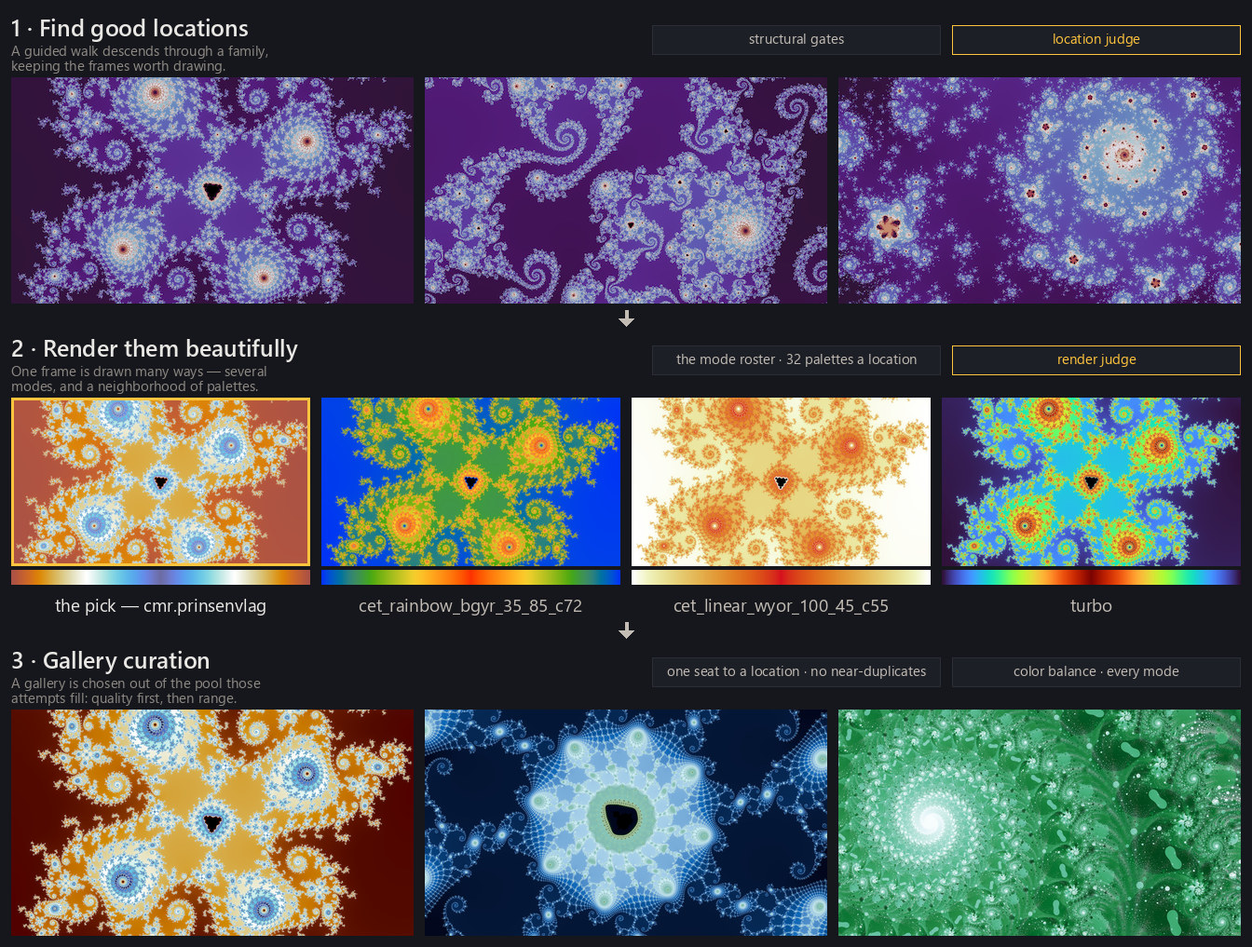
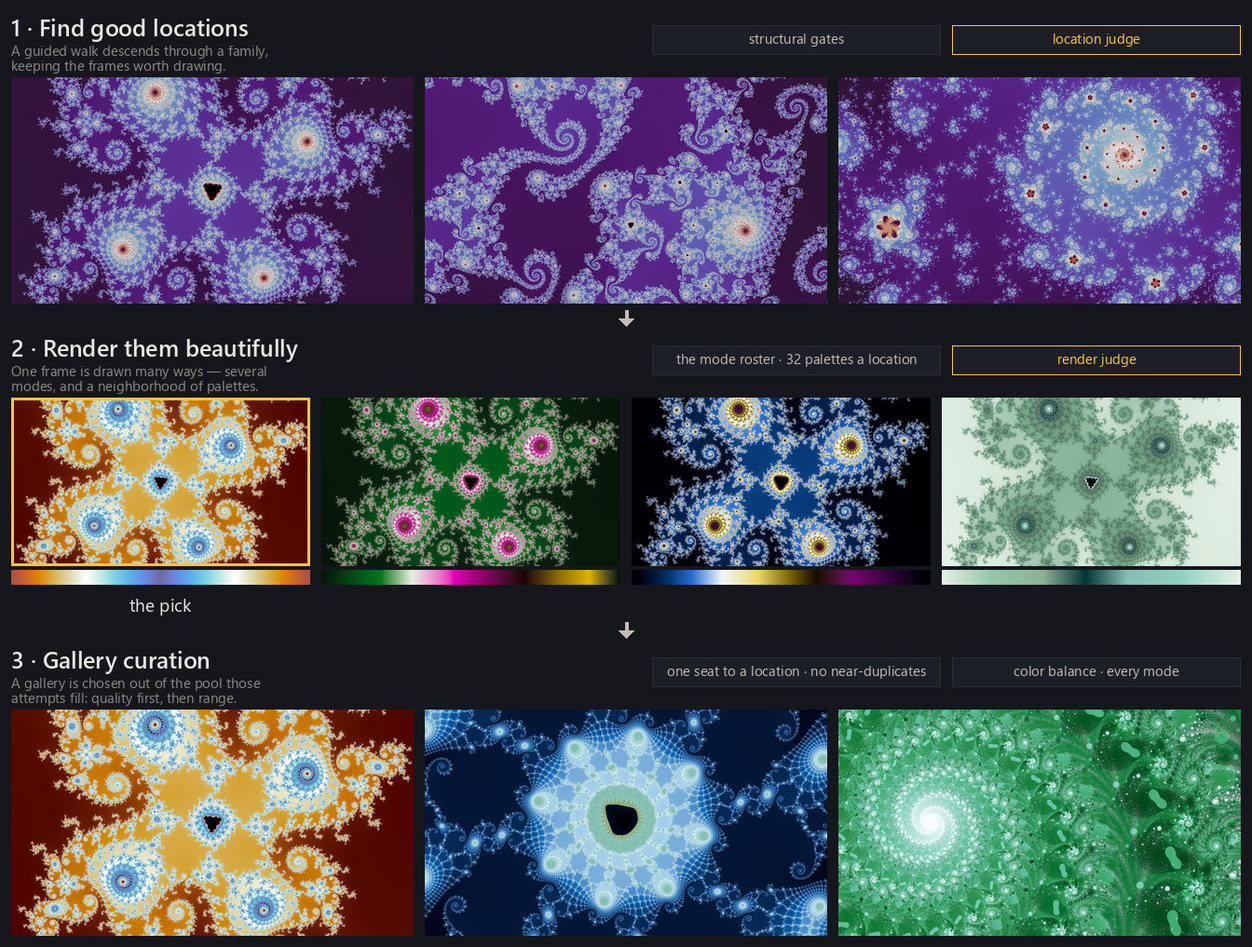
Draw the random palettes from the authored maps
Three changes to which map a figure reaches for, and one to what a row says
about itself.

The random draw in the pipeline's middle band was over the whole 900-map
pool, and kept landing on converted ramps carrying library identifiers for
names — `cet_rainbow_bgyr_35_85_c72` under a picture on the article's front
page. It draws from the authored maps now (Matt, 2026-09-02): names a
person wrote, and every one of the 375 is cyclic.

A cyclic map used to be excluded from that draw, and the reason was a
mistake worth naming. The row held the kept recipe's `mirror: true` fixed
across all four panels, and the engine refuses to fold a cyclic map —
folding is the seam fix for a map that has a seam. But mirror was never a
knob to hold fixed: `colorize.py` sets it as `colormap not in self.cyclic`,
which is what `palettes.Palette.mirror` already spelled here. The flag
follows the map now, exactly as a colorize attempt sets it, and the
exclusion goes with it.

No palette names are drawn on that row any more. A reader can do nothing
with four map names, and four of them turn a band of colour into a band of
text; the gradient under each panel says which map it is, and the names
stay in the provenance.

The levelling reaches the middle band too, which it should have from the
start — the caption says the tones are balanced. The marked panel replays
the run's own stamp, so it is now the same picture as the one in stage 3
[…]

diff --git a/explorer/palettes.js b/explorer/palettes.js
@@ -15,7 +15,7 @@
 
 export const PROVENANCE = {
   "baked": "2026-08-25",
-  "count": 113,
+  "count": 114,
   "default_because": "the article's mandelbrot smooth figures are colored through twilight_shifted",
   "offered": 77,
   "source": "data/palettes/*.json",
@@ -84,6 +84,12 @@ export const PALETTES = new Map([
     offered: false,
     positions: [0.0, 0.0019569471624266144, 0.003913894324853229, 0.005870841487279843, 0.007827788649706457, 0.009784735812133072, 0.011741682974559686, 0.0136986301369863, 0.015655577299412915, 0.01761252446183953, 0.019569471624266144, 0.021526418786692758, 0.023483365949119372, 0.025440313111545987, 0.0273972602739726, 0.029354207436399216, 0.03131115459882583, 0.033268101761252444, 0.03522504892367906, 0.03718199608610567, 0.03913894324853229, 0.0410958904109589, 0.043052837573385516, 0.04500978473581213, 0.046966731898238745, 0.04892367906066536, 0.050880626223091974, 0.05283757338551859, 0.0547945205479452, 0.05675146771037182, 0.05870841487279843, 0.060665362035225046, 0.06262230919765166, 0.06457925636007827, 0.06653620352250489, 0.0684931506849315, 0.07045009784735812, 0.07240704500978473, 0.07436399217221135, 0.07632093933463796, 0.07827788649706457, 0.08023483365949119, 0.0821917808219178, 0.08414872798434442, 0.08610567514677103, 0.08806262230919765, 0.09001956947162426, 0.09197651663405088, 0.09393346379647749, 0.0958904109589041, 0.09784735812133072, 0.09980430528375733, 0.10176125244618395, 0.10371819960861056, 0.10567514677103718, 0.10763209393346379, 0.1095890410958904, 0.11154598825831702, 0.11350293542074363, 0.11545988258317025, 0.11741682974559686, 0.11937377690802348, 0.12133072407045009, 0.1232876712328767, 0.12524461839530332, 0.12720156555772993, 0.12915851272015655, 0.13111545988258316, 0.13307240704500978, 0.1350293542074364, 0.136986301369863, 0.13894324853228962, 0.14090019569471623, 0.14285714285714285, 0.14481409001956946, 0.14677103718199608, 0.1487279843444227, 0.1506849315068493, 0.15264187866927592, 0.15459882583170254, 0.15655577299412915, 0.15851272015655576, 0.16046966731898238, 0.162426614481409, 0.1643835616438356, 0.16634050880626222, 0.16829745596868884, 0.17025440313111545, 0.17221135029354206, 0.17416829745596868, 0.1761252446183953, 0.1780821917808219, 0.18003913894324852, 0.18199608610567514, 0.18395303326810175, 0.18590998043052837, 0.18786692759295498, 0.1898238747553816, 0.1917808219178082, 0.19373776908023482, 0.19569471624266144, 0.19765166340508805, 0.19960861056751467, 0.20156555772994128, 0.2035225048923679, 0.2054794520547945, 0.20743639921722112, 0.20939334637964774, 0.21135029354207435, 0.21330724070450097, 0.21526418786692758, 0.2172211350293542, 0.2191780821917808, 0.22113502935420742, 0.22309197651663404, 0.22504892367906065, 0.22700587084148727, 0.22896281800391388, 0.2309197651663405, 0.2328767123287671, 0.23483365949119372, 0.23679060665362034, 0.23874755381604695, 0.24070450097847357, 0.24266144814090018, 0.2446183953033268, 0.2465753424657534, 0.24853228962818003, 0.25048923679060664, 0.25244618395303325, 0.25440313111545987, 0.2563600782778865, 0.2583170254403131, 0.2602739726027397, 0.2622309197651663, 0.26418786692759294, 0.26614481409001955, 0.26810176125244617, 0.2700587084148728, 0.2720156555772994, 0.273972602739726, 0.2759295499021526, 0.27788649706457924, 0.27984344422700586, 0.28180039138943247, 0.2837573385518591, 0.2857142857142857, 0.2876712328767123, 0.2896281800391389, 0.29158512720156554, 0.29354207436399216, 0.29549902152641877, 0.2974559686888454, 0.299412915851272, 0.3013698630136986, 0.30332681017612523, 0.30528375733855184, 0.30724070450097846, 0.30919765166340507, 0.3111545988258317, 0.3131115459882583, 0.3150684931506849, 0.31702544031311153, 0.31898238747553814, 0.32093933463796476, 0.32289628180039137, 0.324853228962818, 0.3268101761252446, 0.3287671232876712, 0.33072407045009783, 0.33268101761252444, 0.33463796477495106, 0.33659491193737767, 0.3385518590998043, 0.3405088062622309, 0.3424657534246575, 0.34442270058708413, 0.34637964774951074, 0.34833659491193736, 0.350293542074364, 0.3522504892367906, 0.3542074363992172, 0.3561643835616438, 0.35812133072407043, 0.36007827788649704, 0.36203522504892366, 0.3639921722113503, 0.3659491193737769, 0.3679060665362035, 0.3698630136986301, 0.37181996086105673, 0.37377690802348335, 0.37573385518590996, 0.3776908023483366, 0.3796477495107632, 0.3816046966731898, 0.3835616438356164, 0.38551859099804303, 0.38747553816046965, 0.38943248532289626, 0.3913894324853229, 0.3933463796477495, 0.3953033268101761, 0.3972602739726027, 0.39921722113502933, 0.40117416829745595, 0.40313111545988256, 0.4050880626223092, 0.4070450097847358, 0.4090019569471624, 0.410958904109589, 0.41291585127201563, 0.41487279843444225, 0.41682974559686886, 0.4187866927592955, 0.4207436399217221, 0.4227005870841487, 0.4246575342465753, 0.42661448140900193, 0.42857142857142855, 0.43052837573385516, 0.4324853228962818, 0.4344422700587084, 0.436399217221135, 0.4383561643835616, 0.44031311154598823, 0.44227005870841485, 0.44422700587084146, 0.4461839530332681, 0.4481409001956947, 0.4500978473581213, 0.4520547945205479, 0.45401174168297453, 0.45596868884540115, 0.45792563600782776, 0.4598825831702544, 0.461839530332681, 0.4637964774951076, 0.4657534246575342, 0.46771037181996084, 0.46966731898238745, 0.47162426614481406, 0.4735812133072407, 0.4755381604696673, 0.4774951076320939, 0.4794520547945205, 0.48140900195694714, 0.48336594911937375, 0.48532289628180036, 0.487279843444227, 0.4892367906066536, 0.4911937377690802, 0.4931506849315068, 0.49510763209393344, 0.49706457925636005, 0.49902152641878667, 0.5009784735812133, 0.50293542074364, 0.5048923679060665, 0.5068493150684932, 0.5088062622309197, 0.5107632093933464, 0.512720156555773, 0.5146771037181996, 0.5166340508806262, 0.5185909980430529, 0.5205479452054794, 0.5225048923679061, 0.5244618395303327, 0.5264187866927593, 0.5283757338551859, 0.5303326810176126, 0.5322896281800391, 0.5342465753424658, 0.5362035225048923, 0.538160469667319, 0.5401174168297456, 0.5420743639921722, 0.5440313111545988, 0.5459882583170255, 0.547945205479452, 0.5499021526418787, 0.5518590998043053, 0.5538160469667319, 0.5557729941291585, 0.5577299412915852, 0.5596868884540117, 0.5616438356164384, 0.5636007827788649, 0.5655577299412916, 0.5675146771037182, 0.5694716242661448, 0.5714285714285714, 0.5733855185909981, 0.5753424657534246, 0.5772994129158513, 0.5792563600782779, 0.5812133072407045, 0.5831702544031311, 0.5851272015655578, 0.5870841487279843, 0.589041095890411, 0.5909980430528375, 0.5929549902152642, 0.5949119373776908, 0.5968688845401174, 0.598825831702544, 0.6007827788649707, 0.6027397260273972, 0.6046966731898239, 0.6066536203522505, 0.6086105675146771, 0.6105675146771037, 0.6125244618395304, 0.6144814090019569, 0.6164383561643836, 0.6183953033268101, 0.6203522504892368, 0.6223091976516634, 0.62426614481409, 0.6262230919765166, 0.6281800391389433, 0.6301369863013698, 0.6320939334637965, 0.6340508806262231, 0.6360078277886497, 0.6379647749510763, 0.639921722113503, 0.6418786692759295, 0.6438356164383562, 0.6457925636007827, 0.6477495107632094, 0.649706457925636, 0.6516634050880626, 0.6536203522504892, 0.6555772994129159, 0.6575342465753424, 0.6594911937377691, 0.6614481409001957, 0.6634050880626223, 0.6653620352250489, 0.6673189823874756, 0.6692759295499021, 0.6712328767123288, 0.6731898238747553, 0.675146771037182, 0.6771037181996086, 0.6790606653620352, 0.6810176125244618, 0.6829745596868885, 0.684931506849315, 0.6868884540117417, 0.6888454011741683, 0.6908023483365949, 0.6927592954990215, 0.6947162426614482, 0.6966731898238747, 0.6986301369863014, 0.700587084148728, 0.7025440313111546, 0.7045009784735812, 0.7064579256360078, 0.7084148727984344, 0.7103718199608611, 0.7123287671232876, 0.7142857142857143, 0.7162426614481409, 0.7181996086105675, 0.7201565557729941, 0.7221135029354208, 0.7240704500978473, 0.726027397260274, 0.7279843444227005, 0.7299412915851272, 0.7318982387475538, 0.7338551859099804, 0.735812133072407, 0.7377690802348337, 0.7397260273972602, 0.7416829745596869, 0.7436399217221135, 0.7455968688845401, 0.7475538160469667, 0.7495107632093934, 0.7514677103718199, 0.7534246575342466, 0.7553816046966731, 0.7573385518590998, 0.7592954990215264, 0.761252446183953, 0.7632093933463796, 0.7651663405088063, 0.7671232876712328, 0.7690802348336595, 0.7710371819960861, 0.7729941291585127, 0.7749510763209393, 0.776908023483366, 0.7788649706457925, 0.7808219178082192, 0.7827788649706457, 0.7847358121330724, 0.786692759295499, 0.7886497064579256, 0.7906066536203522, 0.7925636007827789, 0.7945205479452054, 0.7964774951076321, 0.7984344422700587, 0.8003913894324853, 0.8023483365949119, 0.8043052837573386, 0.8062622309197651, 0.8082191780821918, 0.8101761252446184, 0.812133072407045, 0.8140900195694716, 0.8160469667318982, 0.8180039138943248, 0.8199608610567515, 0.821917808219178, 0.8238747553816047, 0.8258317025440313, 0.8277886497064579, 0.8297455968688845, 0.8317025440313112, 0.8336594911937377, 0.8356164383561644, 0.837573385518591, 0.8395303326810176, 0.8414872798434442, 0.8434442270058709, 0.8454011741682974, 0.8473581213307241, 0.8493150684931506, 0.8512720156555773, 0.8532289628180039, 0.8551859099804305, 0.8571428571428571, 0.8590998043052838, 0.8610567514677103, 0.863013698630137, 0.8649706457925636, 0.8669275929549902, 0.8688845401174168, 0.8708414872798435, 0.87279843444227, 0.8747553816046967, 0.8767123287671232, 0.8786692759295499, 0.8806262230919765, 0.8825831702544031, 0.8845401174168297, 0.8864970645792564, 0.8884540117416829, 0.8904109589041096, 0.8923679060665362, 0.8943248532289628, 0.8962818003913894, 0.898238747553816, 0.9001956947162426, 0.9021526418786693, 0.9041095890410958, 0.9060665362035225, 0.9080234833659491, 0.9099804305283757, 0.9119373776908023, 0.913894324853229, 0.9158512720156555, 0.9178082191780822, 0.9197651663405088, 0.9217221135029354, 0.923679060665362, 0.9256360078277887, 0.9275929549902152, 0.9295499021526419, 0.9315068493150684, 0.9334637964774951, 0.9354207436399217, 0.9373776908023483, 0.9393346379647749, 0.9412915851272016, 0.9432485322896281, 0.9452054794520548, 0.9471624266144814, 0.949119373776908, 0.9510763209393346, 0.9530332681017613, 0.9549902152641878, 0.9569471624266145, 0.958904109589041, 0.9608610567514677, 0.9628180039138943, 0.9647749510763209, 0.9667318982387475, 0.9686888454011742, 0.9706457925636007, 0.9726027397260274, 0.974559686888454, 0.9765166340508806, 0.9784735812133072, 0.9804305283757339, 0.9823874755381604, 0.9843444227005871, 0.9863013698630136, 0.9882583170254403, 0.9902152641878669, 0.9921722113502935, 0.9941291585127201, 0.9960861056751468, 0.9980430528375733, 1.0],
     colors: [2, 0, 0, 2, 0, 0, 2, 0, 0, 3, 0, 0, 3, 0, 0, 4, 0, 0, 5, 0, 0, 5, 0, 0, 6, 0, 0, 7, 0, 0, 8, 0, 0, 9, 0, 0, 10, 0, 0, 11, 0, 0, 13, 0, 0, 14, 0, 0, 15, 0, 0, 16, 0, 0, 17, 0, 0, 19, 0, 0, 20, 0, 0, 21, 0, 0, 22, 0, 0, 24, 0, 0, 25, 0, 0, 26, 0, 0, 28, 0, 0, 29, 0, 0, 30, 0, 0, 31, 0, 0, 33, 0, 0, 34, 0, 0, 35, 0, 0, 37, 0, 0, 38, 0, 0, 40, 0, 0, 41, 0, 0, 42, 0, 0, 44, 0, 0, 45, 0, 0, 46, 0, 0, 48, 0, 0, 49, 0, 0, 51, 0, 0, 52, 0, 0, 54, 0, 0, 55, 0, 0, 56, 0, 0, 58, 0, 0, 59, 0, 0, 61, 0, 0, 62, 0, 0, 64, 0, 0, 65, 0, 0, 67, 0, 0, 68, 0, 0, 70, 0, 0, 71, 0, 0, 73, 0, 0, 74, 0, 0, 76, 0, 0, 77, 0, 0, 79, 0, 0, 80, 0, 0, 82, 0, 0, 83, 0, 0, 85, 0, 0, 86, 0, 0, 87, 0, 0, 88, 0, 0, 89, 0, 0, 89, 0, 0, 90, 0, 0, 91, 0, 0, 92, 1, 0, 93, 1, 0, 94, 2, 0, 95, 2, 0, 96, 3, 0, 96, 3, 0, 97, 4, 0, 98, 5, 0, 99, 5, 0, 100, 6, 0, 101, 7, 0, 102, 7, 0, 103, 8, 0, 103, 9, 0, 104, 10, 0, 105, 10, 0, 106, 11, 0, 107, 12, 0, 108, 13, 0, 109, 13, 0, 110, 14, 0, 111, 15, 0, 112, 16, 0, 112, 16, 0, 113, 17, 0, 114, 18, 0, 115, 18, 0, 116, 19, 0, 117, 20, 0, 118, 20, 0, 119, 21, 0, 120, 22, 0, 121, 22, 0, 121, 23, 0, 122, 23, 0, 123, 24, 0, 124, 25, 0, 125, 25, 0, 126, 26, 0, 127, 27, 0, 128, 27, 0, 129, 28, 0, 130, 28, 0, 131, 29, 0, 132, 30, 0, 132, 30, 0, 133, 31, 0, 134, 32, 0, 135, 32, 0, 136, 33, 0, 137, 33, 0, 138, 34, 0, 139, 35, 0, 140, 35, 0, 141, 36, 0, 142, 36, 0, 143, 37, 0, 144, 38, 0, 145, 38, 0, 145, 39, 0, 146, 39, 0, 147, 40, 0, 148, 41, 0, 149, 41, 0, 150, 42, 0, 151, 42, 0, 152, 43, 0, 153, 43, 0, 154, 44, 0, 155, 45, 0, 155, 45, 0, 156, 46, 0, 156, 47, 0, 157, 48, 0, 157, 48, 0, 158, 49, 0, 158, 50, 0, 159, 50, 0, 159, 51, 0, 160, 52, 0, 160, 52, 0, 161, 53, 0, 161, 54, 0, 162, 54, 0, 162, 55, 0, 163, 56, 0, 163, 56, 0, 164, 57, 0, 164, 58, 0, 165, 58, 0, 165, 59, 0, 166, 60, 0, 166, 60, 0, 167, 61, 0, 167, 62, 0, 168, 62, 0, 168, 63, 0, 169, 64, 0, 169, 64, 0, 170, 65, 0, 170, 66, 0, 171, 66, 0, 171, 67, 0, 172, 68, 0, 172, 68, 0, 173, 69, 0, 173, 69, 0, 174, 70, 0, 174, 71, 0, 175, 71, 0, 175, 72, 0, 176, 73, 0, 176, 73, 0, 177, 74, 0, 177, 75, 0, 178, 75, 0, 178, 76, 0, 179, 76, 0, 179, 77, 0, 180, 78, 0, 180, 78, 0, 181, 79, 0, 181, 80, 0, 182, 80, 0, 182, 81, 0, 183, 82, 0, 183, 82, 0, 184, 83, 0, 184, 83, 0, 185, 84, 0, 185, 85, 0, 186, 85, 0, 186, 86, 0, 187, 87, 0, 187, 87, 0, 188, 88, 0, 188, 88, 0, 189, 89, 0, 189, 90, 0, 190, 90, 0, 190, 91, 0, 191, 92, 0, 191, 92, 0, 192, 93, 0, 192, 93, 0, 193, 94, 0, 193, 95, 0, 194, 95, 0, 194, 96, 0, 195, 97, 0, 195, 97, 0, 196, 98, 0, 196, 98, 0, 196, 99, 0, 197, 100, 0, 197, 101, 0, 197, 101, 0, 198, 102, 0, 198, 103, 0, 198, 103, 0, 199, 104, 0, 199, 105, 0, 199, 106, 0, 199, 106, 0, 200, 107, 0, 200, 108, 0, 200, 108, 0, 201, 109, 0, 201, 110, 0, 201, 110, 0, 202, 111, 0, 202, 112, 0, 202, 112, 0, 202, 113, 0, 203, 114, 0, 203, 115, 0, 203, 115, 0, 204, 116, 0, 204, 117, 0, 204, 117, 0, 204, 118, 0, 205, 119, 0, 205, 119, 0, 205, 120, 0, 206, 121, 0, 206, 121, 0, 206, 122, 0, 206, 123, 0, 207, 123, 0, 207, 124, 0, 207, 125, 0, 208, 126, 0, 208, 126, 0, 208, 127, 0, 208, 128, 0, 209, 128, 0, 209, 129, 0, 209, 130, 0, 210, 130, 0, 210, 131, 0, 210, 132, 0, 210, 132, 0, 211, 133, 0, 211, 134, 0, 211, 134, 0, 211, 135, 0, 212, 136, 0, 212, 136, 0, 212, 137, 0, 212, 138, 0, 213, 138, 0, 213, 139, 0, 213, 140, 0, 214, 140, 0, 214, 141, 0, 214, 142, 0, 214, 143, 0, 215, 143, 0, 215, 144, 0, 215, 145, 0, 215, 145, 0, 216, 146, 0, 216, 147, 0, 216, 147, 1, 216, 148, 2, 217, 149, 4, 217, 149, 5, 217, 150, 6, 217, 151, 7, 218, 151, 8, 218, 152, 10, 218, 153, 11, 218, 153, 12, 219, 154, 15, 219, 155, 19, 219, 155, 23, 219, 156, 27, 220, 157, 30, 220, 157, 33, 220, 158, 35, 220, 159, 38, 221, 159, 40, 221, 160, 43, 221, 161, 45, 221, 161, 47, 221, 162, 49, 222, 163, 51, 222, 163, 53, 222, 164, 55, 222, 165, 57, 223, 165, 58, 223, 166, 60, 223, 166, 62, 223, 167, 63, 223, 168, 65, 224, 168, 67, 224, 169, 68, 224, 170, 70, 224, 170, 71, 225, 171, 73, 225, 172, 74, 225, 172, 76, 225, 173, 77, 225, 174, 79, 226, 174, 80, 226, 175, 82, 226, 176, 83, 226, 176, 84, 226, 177, 86, 227, 178, 87, 227, 178, 89, 227, 179, 90, 227, 179, 91, 228, 180, 93, 228, 181, 94, 228, 181, 95, 228, 182, 97, 228, 183, 98, 229, 183, 99, 229, 184, 100, 229, 185, 102, 229, 185, 103, 229, 186, 104, 230, 187, 106, 230, 187, 107, 230, 188, 108, 230, 188, 109, 230, 189, 111, 231, 190, 112, 231, 190, 113, 231, 191, 114, 231, 192, 115, 231, 192, 117, 232, 193, 118, 232, 194, 119, 232, 194, 120, 232, 195, 121, 232, 196, 123, 233, 196, 124, 233, 197, 125, 233, 197, 126, 233, 198, 127, 233, 199, 129, 234, 199, 130, 234, 200, 131, 234, 201, 132, 234, 201, 133, 234, 202, 134, 234, 203, 136, 235, 203, 137, 235, 204, 138, 235, 204, 139, 235, 205, 140, 235, 206, 141, 236, 206, 143, 236, 207, 144, 236, 208, 145, 236, 208, 146, 236, 209, 147, 237, 210, 148, 237, 210, 149, 237, 211, 151, 237, 212, 152, 237, 212, 153, 237, 213, 154, 238, 213, 155, 238, 214, 157, 238, 214, 158, 238, 215, 159, 238, 216, 161, 238, 216, 162, 239, 217, 164, 239, 217, 165, 239, 218, 166, 239, 218, 168, 239, 219, 169, 239, 219, 171, 240, 220, 172, 240, 220, 173, 240, 221, 175, 240, 221, 176, 240, 222, 177, 240, 222, 179, 241, 223, 180, 241, 223, 182, 241, 224, 183, 241, 224, 184, 241, 225, 186, 241, 225, 187, 242, 226, 188, 242, 227, 190, 242, 227, 191, 242, 228, 192, 242, 228, 194, 242, 229, 195, 243, 229, 197, 243, 230, 198, 243, 230, 199, 243, 231, 201, 243, 231, 202, 243, 232, 203, 244, 232, 205, 244, 233, 206, 244, 233, 207, 244, 234, 209, 244, 234, 210, 244, 235, 211, 245, 235, 213, 245, 236, 214, 245, 236, 215, 245, 237, 217, 245, 237, 218, 245, 238, 219, 246, 238, 221, 246, 239, 222, 246, 239, 223, 246, 240, 225, 246, 240, 226, 246, 241, 227, 246, 241, 229, 247, 242, 230, 247, 242, 231, 247, 243, 233, 247, 243, 234, 247, 244, 235, 247, 244, 237, 247, 244, 237, 241, 238, 231, 235, 232, 225, 230, 226, 219, 224, 220, 213, 218, 214, 207, 213, 208, 201, 207, 202, 196, 201, 197, 190, 196, 191, 184, 190, 185, 178, 185, 179, 173, 179, 174, 167, 174, 168, 161, 168, 162, 156, 163, 157, 150, 158, 151, 145, 152, 145, 139, 147, 140, 134, 142, 134, 128, 136, 129, 123, 131, 124, 118, 126, 118, 112, 121, 113, 107, 116, 108, 102, 111, 103, 97, 106, 97, 92, 101, 92, 87, 96, 87, 82, 91, 82, 77, 86, 77, 72, 81, 72, 67, 77, 67, 62, 72, 63, 58, 67, 58, 53, 63, 53, 48, 58, 49, 44, 54, 44, 39, 49, 39, 35, 45, 35, 31, 40, 31, 26, 36, 26, 22, 32, 22, 18, 28, 18, 14, 24, 14, 10, 20, 10, 7, 16, 7, 4, 12, 4, 2, 8, 2, 1, 5, 1, 0, 3, 0, 0, 2, 0, 0],
+  }],
+  ["Forge to White", {
+    cyclic: true,
+    offered: false,
+    positions: [0.0, 0.0019569471624266144, 0.003913894324853229, 0.005870841487279843, 0.007827788649706457, 0.009784735812133072, 0.011741682974559686, 0.0136986301369863, 0.015655577299412915, 0.01761252446183953, 0.019569471624266144, 0.021526418786692758, 0.023483365949119372, 0.025440313111545987, 0.0273972602739726, 0.029354207436399216, 0.03131115459882583, 0.033268101761252444, 0.03522504892367906, 0.03718199608610567, 0.03913894324853229, 0.0410958904109589, 0.043052837573385516, 0.04500978473581213, 0.046966731898238745, 0.04892367906066536, 0.050880626223091974, 0.05283757338551859, 0.0547945205479452, 0.05675146771037182, 0.05870841487279843, 0.060665362035225046, 0.06262230919765166, 0.06457925636007827, 0.06653620352250489, 0.0684931506849315, 0.07045009784735812, 0.07240704500978473, 0.07436399217221135, 0.07632093933463796, 0.07827788649706457, 0.08023483365949119, 0.0821917808219178, 0.08414872798434442, 0.08610567514677103, 0.08806262230919765, 0.09001956947162426, 0.09197651663405088, 0.09393346379647749, 0.0958904109589041, 0.09784735812133072, 0.09980430528375733, 0.10176125244618395, 0.10371819960861056, 0.10567514677103718, 0.10763209393346379, 0.1095890410958904, 0.11154598825831702, 0.11350293542074363, 0.11545988258317025, 0.11741682974559686, 0.11937377690802348, 0.12133072407045009, 0.1232876712328767, 0.12524461839530332, 0.12720156555772993, 0.12915851272015655, 0.13111545988258316, 0.13307240704500978, 0.1350293542074364, 0.136986301369863, 0.13894324853228962, 0.14090019569471623, 0.14285714285714285, 0.14481409001956946, 0.14677103718199608, 0.1487279843444227, 0.1506849315068493, 0.15264187866927592, 0.15459882583170254, 0.15655577299412915, 0.15851272015655576, 0.16046966731898238, 0.162426614481409, 0.1643835616438356, 0.16634050880626222, 0.16829745596868884, 0.17025440313111545, 0.17221135029354206, 0.17416829745596868, 0.1761252446183953, 0.1780821917808219, 0.18003913894324852, 0.18199608610567514, 0.18395303326810175, 0.18590998043052837, 0.18786692759295498, 0.1898238747553816, 0.1917808219178082, 0.19373776908023482, 0.19569471624266144, 0.19765166340508805, 0.19960861056751467, 0.20156555772994128, 0.2035225048923679, 0.2054794520547945, 0.20743639921722112, 0.20939334637964774, 0.21135029354207435, 0.21330724070450097, 0.21526418786692758, 0.2172211350293542, 0.2191780821917808, 0.22113502935420742, 0.22309197651663404, 0.22504892367906065, 0.22700587084148727, 0.22896281800391388, 0.2309197651663405, 0.2328767123287671, 0.23483365949119372, 0.23679060665362034, 0.23874755381604695, 0.24070450097847357, 0.24266144814090018, 0.2446183953033268, 0.2465753424657534, 0.24853228962818003, 0.25048923679060664, 0.25244618395303325, 0.25440313111545987, 0.2563600782778865, 0.2583170254403131, 0.2602739726027397, 0.2622309197651663, 0.26418786692759294, 0.26614481409001955, 0.26810176125244617, 0.2700587084148728, 0.2720156555772994, 0.273972602739726, 0.2759295499021526, 0.27788649706457924, 0.27984344422700586, 0.28180039138943247, 0.2837573385518591, 0.2857142857142857, 0.2876712328767123, 0.2896281800391389, 0.29158512720156554, 0.29354207436399216, 0.29549902152641877, 0.2974559686888454, 0.299412915851272, 0.3013698630136986, 0.30332681017612523, 0.30528375733855184, 0.30724070450097846, 0.30919765166340507, 0.3111545988258317, 0.3131115459882583, 0.3150684931506849, 0.31702544031311153, 0.31898238747553814, 0.32093933463796476, 0.32289628180039137, 0.324853228962818, 0.3268101761252446, 0.3287671232876712, 0.33072407045009783, 0.33268101761252444, 0.33463796477495106, 0.33659491193737767, 0.3385518590998043, 0.3405088062622309, 0.3424657534246575, 0.34442270058708413, 0.34637964774951074, 0.34833659491193736, 0.350293542074364, 0.3522504892367906, 0.3542074363992172, 0.3561643835616438, 0.35812133072407043, 0.36007827788649704, 0.36203522504892366, 0.3639921722113503, 0.3659491193737769, 0.3679060665362035, 0.3698630136986301, 0.37181996086105673, 0.37377690802348335, 0.37573385518590996, 0.3776908023483366, 0.3796477495107632, 0.3816046966731898, 0.3835616438356164, 0.38551859099804303, 0.38747553816046965, 0.38943248532289626, 0.3913894324853229, 0.3933463796477495, 0.3953033268101761, 0.3972602739726027, 0.39921722113502933, 0.40117416829745595, 0.40313111545988256, 0.4050880626223092, 0.4070450097847358, 0.4090019569471624, 0.410958904109589, 0.41291585127201563, 0.41487279843444225, 0.41682974559686886, 0.4187866927592955, 0.4207436399217221, 0.4227005870841487, 0.4246575342465753, 0.42661448140900193, 0.42857142857142855, 0.43052837573385516, 0.4324853228962818, 0.4344422700587084, 0.436399217221135, 0.4383561643835616, 0.44031311154598823, 0.44227005870841485, 0.44422700587084146, 0.4461839530332681, 0.4481409001956947, 0.4500978473581213, 0.4520547945205479, 0.45401174168297453, 0.45596868884540115, 0.45792563600782776, 0.4598825831702544, 0.461839530332681, 0.4637964774951076, 0.4657534246575342, 0.46771037181996084, 0.46966731898238745, 0.47162426614481406, 0.4735812133072407, 0.4755381604696673, 0.4774951076320939, 0.4794520547945205, 0.48140900195694714, 0.48336594911937375, 0.48532289628180036, 0.487279843444227, 0.4892367906066536, 0.4911937377690802, 0.4931506849315068, 0.49510763209393344, 0.49706457925636005, 0.49902152641878667, 0.5009784735812133, 0.50293542074364, 0.5048923679060665, 0.5068493150684932, 0.5088062622309197, 0.5107632093933464, 0.512720156555773, 0.5146771037181996, 0.5166340508806262, 0.5185909980430529, 0.5205479452054794, 0.5225048923679061, 0.5244618395303327, 0.5264187866927593, 0.5283757338551859, 0.5303326810176126, 0.5322896281800391, 0.5342465753424658, 0.5362035225048923, 0.538160469667319, 0.5401174168297456, 0.5420743639921722, 0.5440313111545988, 0.5459882583170255, 0.547945205479452, 0.5499021526418787, 0.5518590998043053, 0.5538160469667319, 0.5557729941291585, 0.5577299412915852, 0.5596868884540117, 0.5616438356164384, 0.5636007827788649, 0.5655577299412916, 0.5675146771037182, 0.5694716242661448, 0.5714285714285714, 0.5733855185909981, 0.5753424657534246, 0.5772994129158513, 0.5792563600782779, 0.5812133072407045, 0.5831702544031311, 0.5851272015655578, 0.5870841487279843, 0.589041095890411, 0.5909980430528375, 0.5929549902152642, 0.5949119373776908, 0.5968688845401174, 0.598825831702544, 0.6007827788649707, 0.6027397260273972, 0.6046966731898239, 0.6066536203522505, 0.6086105675146771, 0.6105675146771037, 0.6125244618395304, 0.6144814090019569, 0.6164383561643836, 0.6183953033268101, 0.6203522504892368, 0.6223091976516634, 0.62426614481409, 0.6262230919765166, 0.6281800391389433, 0.6301369863013698, 0.6320939334637965, 0.6340508806262231, 0.6360078277886497, 0.6379647749510763, 0.639921722113503, 0.6418786692759295, 0.6438356164383562, 0.6457925636007827, 0.6477495107632094, 0.649706457925636, 0.6516634050880626, 0.6536203522504892, 0.6555772994129159, 0.6575342465753424, 0.6594911937377691, 0.6614481409001957, 0.6634050880626223, 0.6653620352250489, 0.6673189823874756, 0.6692759295499021, 0.6712328767123288, 0.6731898238747553, 0.675146771037182, 0.6771037181996086, 0.6790606653620352, 0.6810176125244618, 0.6829745596868885, 0.684931506849315, 0.6868884540117417, 0.6888454011741683, 0.6908023483365949, 0.6927592954990215, 0.6947162426614482, 0.6966731898238747, 0.6986301369863014, 0.700587084148728, 0.7025440313111546, 0.7045009784735812, 0.7064579256360078, 0.7084148727984344, 0.7103718199608611, 0.7123287671232876, 0.7142857142857143, 0.7162426614481409, 0.7181996086105675, 0.7201565557729941, 0.7221135029354208, 0.7240704500978473, 0.726027397260274, 0.7279843444227005, 0.7299412915851272, 0.7318982387475538, 0.7338551859099804, 0.735812133072407, 0.7377690802348337, 0.7397260273972602, 0.7416829745596869, 0.7436399217221135, 0.7455968688845401, 0.7475538160469667, 0.7495107632093934, 0.7514677103718199, 0.7534246575342466, 0.7553816046966731, 0.7573385518590998, 0.7592954990215264, 0.761252446183953, 0.7632093933463796, 0.7651663405088063, 0.7671232876712328, 0.7690802348336595, 0.7710371819960861, 0.7729941291585127, 0.7749510763209393, 0.776908023483366, 0.7788649706457925, 0.7808219178082192, 0.7827788649706457, 0.7847358121330724, 0.786692759295499, 0.7886497064579256, 0.7906066536203522, 0.7925636007827789, 0.7945205479452054, 0.7964774951076321, 0.7984344422700587, 0.8003913894324853, 0.8023483365949119, 0.8043052837573386, 0.8062622309197651, 0.8082191780821918, 0.8101761252446184, 0.812133072407045, 0.8140900195694716, 0.8160469667318982, 0.8180039138943248, 0.8199608610567515, 0.821917808219178, 0.8238747553816047, 0.8258317025440313, 0.8277886497064579, 0.8297455968688845, 0.8317025440313112, 0.8336594911937377, 0.8356164383561644, 0.837573385518591, 0.8395303326810176, 0.8414872798434442, 0.8434442270058709, 0.8454011741682974, 0.8473581213307241, 0.8493150684931506, 0.8512720156555773, 0.8532289628180039, 0.8551859099804305, 0.8571428571428571, 0.8590998043052838, 0.8610567514677103, 0.863013698630137, 0.8649706457925636, 0.8669275929549902, 0.8688845401174168, 0.8708414872798435, 0.87279843444227, 0.8747553816046967, 0.8767123287671232, 0.8786692759295499, 0.8806262230919765, 0.8825831702544031, 0.8845401174168297, 0.8864970645792564, 0.8884540117416829, 0.8904109589041096, 0.8923679060665362, 0.8943248532289628, 0.8962818003913894, 0.898238747553816, 0.9001956947162426, 0.9021526418786693, 0.9041095890410958, 0.9060665362035225, 0.9080234833659491, 0.9099804305283757, 0.9119373776908023, 0.913894324853229, 0.9158512720156555, 0.9178082191780822, 0.9197651663405088, 0.9217221135029354, 0.923679060665362, 0.9256360078277887, 0.9275929549902152, 0.9295499021526419, 0.9315068493150684, 0.9334637964774951, 0.9354207436399217, 0.9373776908023483, 0.9393346379647749, 0.9412915851272016, 0.9432485322896281, 0.9452054794520548, 0.9471624266144814, 0.949119373776908, 0.9510763209393346, 0.9530332681017613, 0.9549902152641878, 0.9569471624266145, 0.958904109589041, 0.9608610567514677, 0.9628180039138943, 0.9647749510763209, 0.9667318982387475, 0.9686888454011742, 0.9706457925636007, 0.9726027397260274, 0.974559686888454, 0.9765166340508806, 0.9784735812133072, 0.9804305283757339, 0.9823874755381604, 0.9843444227005871, 0.9863013698630136, 0.9882583170254403, 0.9902152641878669, 0.9921722113502935, 0.9941291585127201, 0.9960861056751468, 0.9980430528375733, 1.0],
+    colors: [1, 0, 0, 1, 0, 0, 1, 0, 0, 2, 0, 0, 2, 0, 0, 3, 0, 0, 3, 0, 0, 4, 0, 0, 4, 0, 0, 5, 0, 0, 5, 0, 0, 6, 0, 0, 7, 0, 0, 8, 0, 0, 9, 0, 0, 9, 0, 0, 11, 0, 0, 12, 0, 0, 13, 0, 0, 14, 0, 0, 15, 0, 0, 16, 0, 0, 17, 0, 0, 18, 0, 0, 19, 0, 0, 20, 0, 0, 21, 0, 0, 22, 0, 0, 24, 0, 0, 25, 0, 0, 26, 0, 0, 27, 0, 0, 28, 0, 0, 29, 0, 0, 30, 0, 0, 32, 0, 0, 33, 0, 0, 34, 0, 0, 35, 0, 0, 36, 0, 0, 38, 0, 0, 39, 0, 0, 40, 0, 0, 41, 0, 0, 42, 0, 0, 44, 0, 0, 45, 0, 0, 46, 0, 0, 47, 0, 0, 49, 0, 0, 50, 0, 0, 51, 0, 0, 52, 0, 0, 54, 0, 0, 55, 0, 0, 56, 0, 0, 57, 0, 0, 59, 0, 0, 60, 0, 0, 61, 0, 0, 62, 0, 0, 64, 0, 0, 65, 0, 0, 66, 0, 0, 68, 0, 0, 69, 0, 0, 70, 0, 0, 72, 0, 0, 73, 0, 0, 74, 0, 0, 76, 0, 0, 77, 0, 0, 78, 0, 0, 80, 0, 0, 81, 0, 0, 82, 0, 0, 84, 0, 0, 85, 0, 0, 86, 0, 0, 88, 0, 0, 89, 0, 0, 91, 0, 0, 92, 0, 0, 93, 0, 0, 94, 0, 0, 94, 0, 0, 95, 0, 0, 96, 0, 0, 97, 0, 0, 98, 0, 0, 99, 0, 0, 100, 0, 0, 101, 0, 0, 101, 0, 0, 102, 0, 0, 103, 0, 0, 104, 0, 0, 105, 0, 0, 106, 0, 0, 107, 0, 0, 107, 0, 0, 108, 0, 0, 109, 0, 0, 110, 0, 0, 111, 0, 0, 112, 0, 0, 113, 0, 0, 114, 0, 0, 115, 0, 0, 115, 0, 0, 116, 0, 0, 117, 0, 0, 118, 0, 0, 119, 0, 0, 120, 0, 0, 121, 0, 0, 122, 0, 0, 123, 0, 0, 123, 0, 0, 124, 0, 0, 125, 0, 0, 126, 0, 0, 127, 0, 0, 128, 0, 0, 129, 0, 0, 130, 0, 0, 131, 0, 0, 132, 0, 0, 133, 0, 0, 133, 0, 0, 134, 0, 0, 135, 0, 0, 136, 0, 0, 137, 0, 0, 138, 0, 0, 139, 0, 0, 140, 0, 0, 141, 0, 0, 142, 0, 0, 143, 0, 0, 143, 0, 0, 144, 0, 0, 145, 0, 0, 146, 0, 0, 147, 0, 0, 148, 0, 0, 149, 0, 0, 150, 1, 0, 151, 2, 0, 152, 3, 0, 153, 3, 0, 154, 4, 0, 155, 5, 0, 156, 6, 0, 156, 6, 0, 157, 7, 0, 158, 8, 0, 159, 9, 0, 160, 10, 0, 161, 11, 0, 162, 11, 0, 163, 12, 0, 164, 13, 0, 165, 14, 0, 166, 15, 0, 167, 15, 0, 168, 16, 0, 169, 17, 0, 170, 17, 0, 171, 18, 0, 172, 19, 0, 172, 20, 0, 173, 20, 0, 174, 21, 0, 175, 22, 0, 176, 23, 0, 176, 24, 0, 176, 25, 0, 177, 27, 0, 177, 28, 0, 178, 29, 0, 178, 30, 0, 179, 31, 0, 179, 32, 0, 180, 33, 0, 180, 34, 0, 180, 35, 0, 181, 36, 0, 181, 37, 0, 182, 38, 0, 182, 39, 0, 183, 40, 0, 183, 41, 0, 183, 42, 0, 184, 42, 0, 184, 43, 0, 185, 44, 0, 185, 45, 0, 186, 46, 0, 186, 47, 0, 186, 47, 0, 187, 48, 0, 187, 49, 0, 188, 50, 0, 188, 51, 0, 189, 51, 0, 189, 52, 0, 189, 53, 0, 190, 54, 0, 190, 55, 0, 191, 55, 0, 191, 56, 0, 192, 57, 0, 192, 58, 0, 192, 58, 0, 193, 59, 0, 193, 60, 0, 194, 60, 0, 194, 61, 0, 194, 62, 0, 195, 63, 0, 195, 63, 0, 196, 64, 0, 196, 65, 0, 197, 65, 0, 197, 66, 0, 197, 67, 0, 198, 68, 0, 198, 68, 0, 199, 69, 0, 199, 70, 0, 200, 70, 0, 200, 71, 0, 200, 72, 0, 201, 72, 0, 201, 73, 0, 202, 74, 0, 202, 74, 0, 202, 75, 0, 203, 76, 0, 203, 76, 0, 204, 77, 0, 204, 78, 0, 205, 78, 0, 205, 79, 0, 205, 80, 0, 206, 80, 0, 206, 81, 0, 207, 82, 0, 207, 82, 0, 207, 83, 0, 208, 84, 0, 208, 84, 0, 209, 85, 0, 209, 86, 0, 210, 86, 0, 210, 87, 0, 210, 88, 0, 211, 88, 0, 211, 89, 0, 212, 90, 0, 212, 90, 0, 212, 91, 0, 213, 92, 0, 213, 92, 0, 214, 93, 0, 214, 93, 0, 214, 94, 0, 215, 95, 0, 215, 96, 0, 215, 97, 0, 216, 98, 0, 216, 99, 0, 216, 100, 0, 217, 100, 0, 217, 101, 0, 217, 102, 0, 217, 103, 0, 218, 104, 0, 218, 105, 0, 218, 106, 0, 219, 106, 0, 219, 107, 0, 219, 108, 0, 220, 109, 0, 220, 110, 0, 220, 111, 0, 220, 111, 0, 221, 112, 0, 221, 113, 0, 221, 114, 0, 222, 115, 0, 222, 116, 0, 222, 116, 0, 222, 117, 0, 223, 118, 0, 223, 119, 0, 223, 120, 0, 224, 121, 0, 224, 121, 0, 224, 122, 0, 224, 123, 0, 225, 124, 0, 225, 125, 0, 225, 125, 0, 225, 126, 0, 226, 127, 0, 226, 128, 0, 226, 129, 0, 227, 130, 0, 227, 130, 0, 227, 131, 0, 227, 132, 0, 228, 133, 0, 228, 134, 0, 228, 134, 0, 228, 135, 0, 229, 136, 0, 229, 137, 0, 229, 138, 0, 230, 138, 0, 230, 139, 0, 230, 140, 0, 230, 141, 0, 231, 142, 0, 231, 142, 0, 231, 143, 0, 231, 144, 0, 232, 145, 0, 232, 146, 0, 232, 146, 0, 232, 147, 0, 233, 148, 0, 233, 149, 0, 233, 150, 0, 233, 150, 0, 234, 151, 0, 234, 152, 0, 234, 153, 0, 234, 154, 0, 235, 154, 0, 235, 155, 0, 235, 156, 0, 235, 157, 0, 235, 157, 0, 236, 158, 0, 236, 159, 1, 236, 160, 2, 236, 161, 4, 237, 161, 5, 237, 162, 6, 237, 163, 8, 237, 164, 9, 238, 165, 11, 238, 165, 12, 238, 166, 13, 238, 167, 14, 238, 168, 16, 239, 169, 18, 239, 169, 24, 239, 170, 29, 239, 171, 33, 239, 172, 37, 239, 172, 41, 239, 173, 44, 239, 174, 47, 239, 175, 50, 239, 175, 53, 239, 176, 56, 239, 177, 58, 239, 178, 61, 240, 178, 63, 240, 179, 65, 240, 180, 68, 240, 181, 70, 240, 181, 72, 240, 182, 74, 240, 183, 76, 240, 184, 78, 240, 184, 80, 240, 185, 82, 240, 186, 84, 240, 187, 86, 240, 187, 88, 240, 188, 90, 240, 189, 92, 240, 190, 93, 240, 190, 95, 240, 191, 97, 240, 192, 99, 240, 193, 100, 241, 193, 102, 241, 194, 104, 241, 195, 105, 241, 196, 107, 241, 196, 109, 241, 197, 110, 241, 198, 112, 241, 199, 114, 241, 199, 115, 241, 200, 117, 241, 201, 119, 241, 201, 120, 241, 202, 122, 241, 203, 123, 241, 204, 125, 241, 204, 126, 241, 205, 128, 241, 206, 130, 241, 207, 131, 241, 207, 133, 241, 208, 134, 241, 209, 136, 241, 209, 137, 241, 210, 139, 241, 211, 140, 241, 212, 142, 241, 212, 143, 241, 213, 145, 241, 214, 146, 241, 214, 148, 241, 215, 149, 241, 216, 151, 241, 217, 152, 241, 217, 153, 241, 218, 155, 241, 219, 156, 241, 220, 158, 241, 220, 159, 241, 221, 161, 241, 222, 162, 241, 222, 164, 242, 223, 166, 242, 223, 167, 242, 224, 169, 242, 225, 171, 243, 225, 172, 243, 226, 174, 243, 226, 176, 243, 227, 177, 244, 228, 179, 244, 228, 181, 244, 229, 182, 245, 229, 184, 245, 230, 186, 245, 231, 187, 245, 231, 189, 246, 232, 191, 246, 232, 192, 246, 233, 194, 246, 234, 196, 247, 234, 197, 247, 235, 199, 247, 235, 200, 247, 236, 202, 248, 237, 204, 248, 237, 205, 248, 238, 207, 248, 238, 209, 249, 239, 210, 249, 240, 212, 249, 240, 213, 249, 241, 215, 250, 241, 217, 250, 242, 218, 250, 243, 220, 251, 243, 221, 251, 244, 223, 251, 244, 225, 251, 245, 226, 252, 246, 228, 252, 246, 229, 252, 247, 231, 252, 247, 233, 253, 248, 234, 253, 249, 236, 253, 249, 237, 253, 250, 239, 254, 250, 241, 254, 251, 242, 254, 251, 244, 248, 245, 238, 238, 235, 228, 228, 224, 218, 218, 214, 208, 208, 204, 198, 198, 194, 188, 188, 185, 179, 179, 175, 169, 169, 165, 160, 160, 156, 151, 151, 146, 141, 142, 137, 132, 132, 128, 123, 124, 119, 115, 115, 110, 106, 106, 101, 97, 97, 92, 89, 89, 84, 80, 81, 75, 72, 72, 67, 64, 64, 59, 56, 56, 51, 49, 49, 43, 41, 41, 36, 34, 34, 28, 27, 27, 21, 20, 20, 15, 13, 13, 8, 7, 7, 4, 3, 3, 1, 1, 1, 0, 0],
   }],
   ["GnBu", {
     cyclic: false,

diff --git a/article/rendering-fundamentals.html b/article/rendering-fundamentals.html
@@ -185,8 +185,8 @@
     smoothly — so that no single sweep of the palette has to cover the whole range. That is why
     so many classic Mandelbrot renders look striped with rings of repeating color.</p>
 
-      <figure class="figure" data-figure="render-cyclic-repeats">
-        <a class="figure-open" href="../explorer/index.html?v=2&amp;f=julia&amp;cx=-1.2517612129804818&amp;cy=0.038979112285470574&amp;x=-0.2739474295196568&amp;y=0.09521327512869174&amp;w=0.6313752221683463&amp;p=nova-25" title="open in fractal explorer" aria-label="open in fractal explorer"><img src="../assets/images/figures/render-cyclic-repeats.jpg" width="1316" height="886" alt="One Julia location under a cyclic amber palette at one, two, three and four sweeps of the gradient, each panel over a strip of the gradient repeated as many times as that panel spends it."><span class="figure-open-mark" aria-hidden="true">↗</span></a>
+            <figure class="figure" data-figure="render-cyclic-repeats">
+        <a class="figure-open" href="../explorer/index.html?v=2&amp;f=julia&amp;cx=-1.2517612129804818&amp;cy=0.038979112285470574&amp;x=-0.2739474295196568&amp;y=0.09521327512869174&amp;w=0.6313752221683463&amp;p=Forge%20to%20White" title="open in fractal explorer" aria-label="open in fractal explorer"><img src="../assets/images/figures/render-cyclic-repeats.jpg" width="1316" height="886" alt="One Julia location under a cyclic amber palette at one, two, three and four sweeps of the gradient, each panel over a strip of the gradient repeated as many times as that panel spends it."><span class="figure-open-mark" aria-hidden="true">↗</span></a>
         <figcaption>One location and one cyclic palette, swept across the frame's range k times. At k = 1 the gradient is spent once over a range most of the frame does not occupy, and wide areas come out nearly flat; each further sweep spends it again and pulls more of the structure apart. Repetition is the classic escape from a squeezed range, and it is why so many older Mandelbrot renders are striped with rings.</figcaption>
       </figure>
 

diff --git a/article/escape-time-fractals.html b/article/escape-time-fractals.html
@@ -66,8 +66,8 @@
     the multibrots, Julia and Phoenix — and how one exact view inside one of them is pinned
     down.</p>
 
-      <figure class="figure" data-figure="escape-families">
-        <a class="figure-open" href="../explorer/index.html?v=2&amp;y=0.0&amp;p=twilight_shifted" title="open in fractal explorer" aria-label="open in fractal explorer"><img src="../assets/images/figures/escape-families.jpg" width="1344" height="1453" alt="Fifteen panels: the Mandelbrot set and the degree-3, 4 and 5 multibrot sets, each with two marked points and the two Julia sets those points produce, and a bottom row of three Phoenix views."><span class="figure-open-mark" aria-hidden="true">↗</span></a>
+            <figure class="figure" data-figure="escape-families">
+        <img src="../assets/images/figures/escape-families.jpg" width="1344" height="1453" alt="Fifteen panels: the Mandelbrot set and the degree-3, 4 and 5 multibrot sets, each with two marked points and the two Julia sets those points produce, and a bottom row of three Phoenix views.">
         <figcaption>Every family the project draws, each parameter plane shown whole. Two points are marked on each, and beside it are the Julia sets those two points produce — every point of the plane has one, and a mark is colored to match the frame it belongs to. Phoenix, on the last row, is drawn the way a Julia set is and so has no plane to mark: the celebrated constants first, then two views from elsewhere in its parameter space.</figcaption>
       </figure>
 

diff --git a/builder/renders.py b/builder/renders.py
@@ -697,6 +697,83 @@ def levelled_stops(colormap: str, stamp: dict) -> dict:
     return json.loads(completed.stdout)
 
 
+#: The curve one *fresh* render earns, measured the way the operator measures it. Where
+#: `levelled_stops` replays a curve a run already recorded, this derives one for a picture
+#: no run ever made — the alternate colorings of `overview-pipeline`'s middle band, which
+#: exist only in this figure. There is no first operator to disagree with in that case, so
+#: measuring here is the operator acting, not a second reading of it.
+MEASURED_PROGRAM = """
+import json, sys
+
+from pathlib import Path
+
+from fractal_wallpapers.coloring import autolevel, band as band_module
+from fractal_wallpapers import paths
+
+ask = json.load(sys.stdin)
+loaded = json.loads(
+    (paths.colormap_dir() / (ask["colormap"] + ".json")).read_text(encoding="utf-8")
+)
+record = json.loads(Path(band_module.record_path()).read_text(encoding="utf-8"))
+statistics = autolevel.stats_of(Path(ask["picture"]))
+curve = autolevel.derive_curve(statistics, band_module.bands(record))
+if not curve.get("applies") or curve.get("identity"):
+    print(json.dumps({"acted": False}))
+else:
+    stops, capped = autolevel.curved_stops(loaded["stops"], curve)
+    print(json.dumps({
+        "acted": True, "kind": loaded["kind"], "stops": stops, "curve": curve, "capped": capped
+    }))
+"""
+
+
+def measured_stops(colormap: str, picture: Path) -> dict | None:
+    """What the autolevel operator does to this map, given this render of it.
+
+    `None` where it does nothing, which is the operator's own identity case and the
+    commonest answer. Otherwise `{"kind", "stops", "curve", "capped"}`.
+    """
+    completed = subprocess.run(
+        [str(venv_python()), "-c", MEASURED_PROGRAM],
+        input=json.dumps({"colormap": colormap, "picture": str(picture)}),
+        capture_output=True,
+        text=True,
+        cwd=str(wallpapers_root()),
+        check=False,
+    )
+    if completed.returncode != 0:
+        raise EngineError(f"measuring the autolevel curve failed: {completed.stderr.strip()}")
+    answer = json.loads(completed.stdout.strip().splitlines()[-1])
+    return answer if answer.get("acted") else None
+
+
+def colormap_directory(name: str, kind: str, stops: list, tag: str) -> Path:
+    """A directory holding one map under its own name, for `colormap_dir` to point at.
+
+    The arrangement the autolevel operator itself uses — one spec with one directory
+    changed — so the engine's fold decision and its bake are the production call's, and
+    only the stop colours differ. Under the ignored render cache, keyed on `tag`.
+    """
+    directory = default_cache_root() / "levelled" / tag
+    made = directory / f"{name}.json"
+    if not made.is_file():
+        directory.mkdir(parents=True, exist_ok=True)
+        made.write_text(
+            json.dumps(
+                {
+                    "schema": 1,
+                    "name": name,
+                    "kind": kind,
+                    "source": f"{name}, levelled by the operator for one render",
+                    "stops": stops,
+                }
+            ),
+            encoding="utf-8",
+            newline="\n",
+        )
+    return directory
+
+
 def palette_space(what: str, **ask):
     """One question about palette space, answered by the module that defines it."""
     completed = subprocess.run(

diff --git a/builder/picks.py b/builder/picks.py
@@ -248,7 +248,15 @@ def ledger_rows(keys) -> dict[str, dict]:
         for line in handle:
             if not line.strip():
                 continue
-            row = json.loads(line)
+            try:
+                row = json.loads(line)
+            except json.JSONDecodeError:
+                # A run next door appends to this file while a figure reads it, so the
+                # last line can be half-written. Skipping an unreadable row is safe here
+                # only because `resolve` refuses by name for every key it did not find —
+                # a torn row that happened to be a wanted one comes back as a refusal
+                # naming that key, never as a figure quietly drawn without it.
+                continue
             key = str(row.get("key"))
             if key in wanted:
                 found[key] = row
@@ -411,28 +419,12 @@ def levelled_colormap(pick: Pick, stamp: dict) -> Path:
     """
     name = str(pick.recipe["colormap"])
     replayed = renders.levelled_stops(name, stamp)
-    directory = (
-        renders.default_cache_root()
-        / "levelled"
-        / renders.spec_key("levelled", {"colormap": name, "curve": stamp["curve"]})
+    return renders.colormap_directory(
+        name,
+        replayed["kind"],
+        replayed["stops"],
+        renders.spec_key("levelled", {"colormap": name, "curve": stamp["curve"]}),
     )
-    made = directory / f"{name}.json"
-    if not made.is_file():
-        directory.mkdir(parents=True, exist_ok=True)
-        made.write_text(
-            json.dumps(
-                {
-                    "schema": 1,
-                    "name": name,
-                    "kind": replayed["kind"],
-                    "source": f"{name}, levelled by the operator for one render",
-                    "stops": replayed["stops"],
-                }
-            ),
-            encoding="utf-8",
-            newline=LF,
-        )
-    return directory
 
 
 def seat_picture(pick: Pick) -> Path:

diff --git a/builder/palettes.py b/builder/palettes.py
@@ -258,6 +258,11 @@ def strip(name: str, width: int, height: int = STRIP_HEIGHT) -> Path:
     Never in Python: a second densifier is how a strip and the picture beside it come to
     disagree about the same palette. Skipped where the file is already there, so a sheet
     is composed without redrawing eighty ramps.
+
+    The fold is not passed and does not need to be: `palettes strip` already defaults to
+    *folded unless the map is cyclic*, which is the pipeline's own rule and the one
+    `Palette.mirror` spells. A strip and the picture above it therefore agree about the
+    map without either side saying so.
     """
     directory = renders.default_cache_root() / "strips"
     directory.mkdir(parents=True, exist_ok=True)
@@ -1036,6 +1041,15 @@ DRIFT_NAMED = 8
 #: Where a map's name came from, which is the whole of what decides whether the page shows
 #: it under a display name — see `display_name`.
 EXTRACTED = "extracted"
+
+#: The maps written against the palette prompt, as opposed to `extracted` from a picture
+#: or `converted` from an upstream library. **These are the maps a figure draws at random**
+#: *(Matt, 2026-09-02)*: their names were written as prose rather than being a library
+#: identifier or a wallpaper's filename, and all 375 of them are cyclic — where 90% of the
+#: extracted maps close by *mirroring*, and so read as 2k bands when swept k times, not one
+#: authored map is a palindrome. A random draw over the whole pool put
+#: `cet_rainbow_bgyr_35_85_c72` under a picture on the article's front page.
+AUTHORED = "authored"
 
 #: Words a filename carries that say nothing about the palette: the site a picture came
 #: off, the resolution words beside it, and `fractal`, which every map on a fractal site
